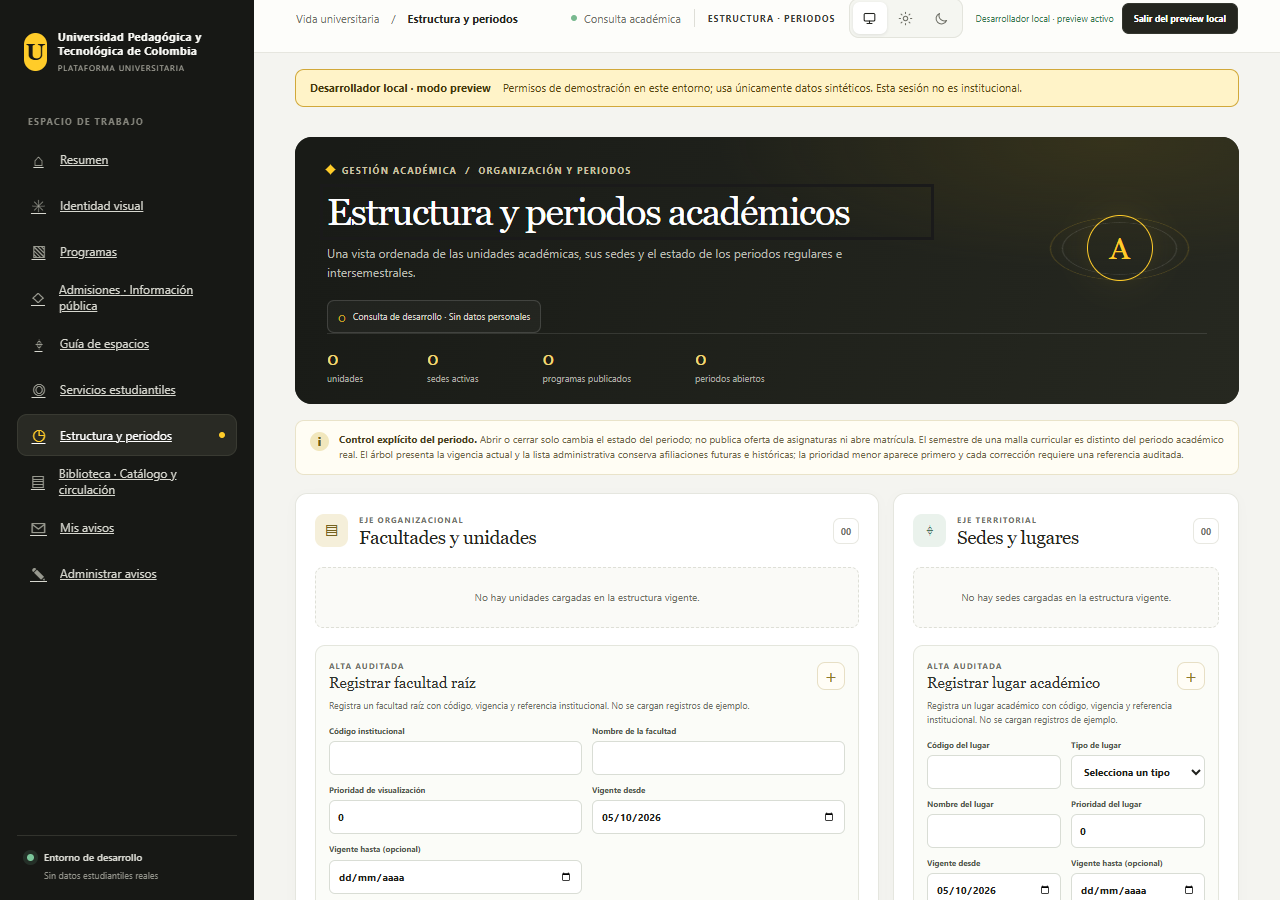
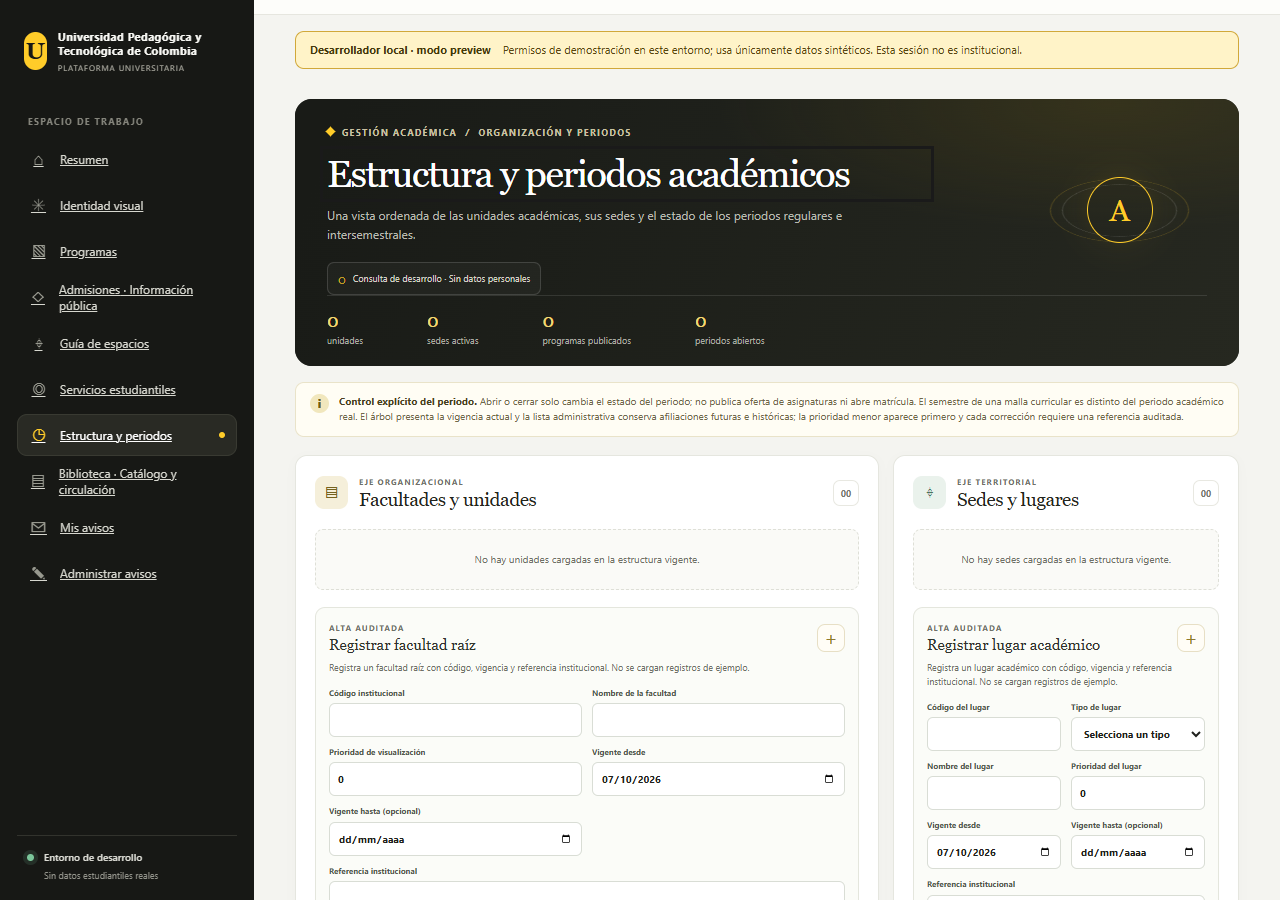
fix(a11y): auditar las 11 rutas reales y corregir avisos, carga y filtro
Las auditorias axe usaban #noticias, que no existe y cae a la portada: median la portada dos veces y nunca vieron #avisos, #avisos-admin ni #estudiantes. Con la lista corregida a las 11 rutas reales aparecen 7 violaciones: page-has-heading-one x4 en las dos paginas de avisos (empezaban en h2), .module-loading a 4,17 en claro y el filtro pulsado estudiantil a 1,33 sobre amarillo en oscuro. Titulos a h1 con sus h3 a h2 y reglas SCSS, .module-loading oscurecido a 4,77 y superficie oscura propia para el filtro conservando el amarillo. axe 0 violaciones en 22 combinaciones. 557 pruebas en 80 archivos y 129 guardas, lint y build verdes.

diff --git a/frontend/src/features/notices/InstitutionalNoticesAdminPage.tsx b/frontend/src/features/notices/InstitutionalNoticesAdminPage.tsx
@@ -130,7 +130,7 @@ function InstitutionalNoticesAdminPageContent({
     <section className="notices-admin" aria-labelledby="notices-admin-title">
       <header className="notices-admin-heading">
         <p className="notices-admin-kicker">COMUNICACIONES INSTITUCIONALES</p>
-        <h2 id="notices-admin-title">Avisos institucionales</h2>
+        <h1 id="notices-admin-title">Avisos institucionales</h1>
         <p>Cada aviso se publica completo y no se edita; una corrección es otro aviso. La audiencia decide quién puede leerlo.</p>
       </header>
 
@@ -148,7 +148,7 @@ function InstitutionalNoticesAdminPageContent({
           {notices.map((notice) => (
             <li key={notice.noticeId} className="notices-admin-item">
               <div className="notices-admin-item-heading">
-                <h3>{notice.title}</h3>
+                <h2>{notice.title}</h2>
                 <span className="notices-admin-window">
                   <time dateTime={notice.publishedFrom}>{notice.publishedFrom}</time>
                   {' – '}
@@ -173,7 +173,7 @@ function InstitutionalNoticesAdminPageContent({
 
       {canWrite && (
         <form className="notices-admin-form" aria-label="Publicar aviso institucional" onSubmit={(event) => void publish(event)}>
-          <h3>Publicar aviso</h3>
+          <h2>Publicar aviso</h2>
           <label className="notices-admin-field"><span>Título</span>
             <input name="title" required maxLength={160} /></label>
           <label className="notices-admin-field"><span>Cuerpo</span>

diff --git a/frontend/src/features/notices/MyNoticesPage.tsx b/frontend/src/features/notices/MyNoticesPage.tsx
@@ -72,7 +72,7 @@ function MyNoticesPageContent({ client, accessToken }: { client: NoticesClient; 
     <section className="my-notices" aria-labelledby="my-notices-title">
       <header className="my-notices-heading">
         <p className="my-notices-kicker">COMUNICACIONES INSTITUCIONALES</p>
-        <h2 id="my-notices-title">Mis avisos</h2>
+        <h1 id="my-notices-title">Mis avisos</h1>
         <p>Avisos cuya audiencia corresponde a tus ámbitos institucionales vigentes. El servidor decide qué puedes leer.</p>
       </header>
 
@@ -88,7 +88,7 @@ function MyNoticesPageContent({ client, accessToken }: { client: NoticesClient; 
           {notices.map((notice) => (
             <li key={notice.noticeId} className="my-notices-item">
               <div className="my-notices-item-heading">
-                <h3>{notice.title}</h3>
+                <h2>{notice.title}</h2>
                 <span className="my-notices-window">
                   <time dateTime={notice.publishedFrom}>{notice.publishedFrom}</time>
                   {' – '}

diff --git a/frontend/src/features/notices/InstitutionalNoticesAdminPage.test.tsx b/frontend/src/features/notices/InstitutionalNoticesAdminPage.test.tsx
@@ -28,6 +28,15 @@ function fakeClient(overrides: Partial<NoticesAdminClient> = {}): NoticesAdminCl
 afterEach(() => cleanup())
 
 describe('InstitutionalNoticesAdminPage', () => {
+  // axe-core, 8 de octubre de 2026: la página empezaba en `h2` sin `h1`.
+  it('titles the page with a level-one heading', async () => {
+    // Arrange + Act
+    render(<InstitutionalNoticesAdminPage client={fakeClient()} authorization={{ accessToken: 'token', canRead: true, canWrite: false }} />)
+
+    // Assert
+    expect(await screen.findByRole('heading', { level: 1, name: 'Avisos institucionales' })).toBeVisible()
+  })
+
   it('lists the published notices with their reference and audiences', async () => {
     // Arrange + Act
     render(<InstitutionalNoticesAdminPage client={fakeClient()} authorization={{ accessToken: 'token', canRead: true, canWrite: false }} />)

diff --git a/frontend/src/App.scss b/frontend/src/App.scss
@@ -181,7 +181,7 @@
 .page-content { max-width: 1440px; margin: 0 auto; padding: 34px 42px 20px; }
 .workspace-home-page-content { min-width: 0; min-height: calc(100vh - 69px); padding: 0; }
 .workspace-home-page-content > .page-footer { width: min(calc(100% - clamp(36px, 6.4vw, 96px)), 1510px); margin: 0 auto 18px; }
-.module-loading { display: grid; min-height: clamp(220px, 54vh, 520px); place-items: center; color: #74766e; font-size: 12px; }
+.module-loading { display: grid; min-height: clamp(220px, 54vh, 520px); place-items: center; color: #6b6d62; font-size: 12px; }
 // ponytail: la reserva replica la altura real del modulo (~4508 px medidos con la
 // ventana de 24 tarjetas). Si cambia la ventana o el contenido, hay que volver a
 // medir; mientras tanto el salto del footer es preferible a un CLS de 0,75.

diff --git a/frontend/src/features/notices/MyNoticesPage.test.tsx b/frontend/src/features/notices/MyNoticesPage.test.tsx
@@ -21,6 +21,16 @@ function fakeClient(overrides: Partial<NoticesClient> = {}): NoticesClient {
 afterEach(() => cleanup())
 
 describe('MyNoticesPage', () => {
+  // axe-core, 8 de octubre de 2026: la página empezaba en `h2` sin `h1`. El título de página es el
+  // nivel uno; los avisos cuelgan de él como nivel dos.
+  it('titles the page with a level-one heading', async () => {
+    // Arrange + Act
+    render(<MyNoticesPage client={fakeClient()} accessToken="token" />)
+
+    // Assert
+    expect(await screen.findByRole('heading', { level: 1, name: 'Mis avisos' })).toBeVisible()
+  })
+
   it('lists the notices a person can read with their validity window', async () => {
     // Arrange + Act
     render(<MyNoticesPage client={fakeClient()} accessToken="token" />)

diff --git a/frontend/src/styles/_theme.scss b/frontend/src/styles/_theme.scss
@@ -345,6 +345,14 @@
   color: var(--ui-text-primary);
 }
 
+// El filtro pulsado fija fondo amarillo y texto oscuro con literales; la regla puerta le pinta el
+// texto claro en oscuro (1,33 sobre `#ffcc29`). Se usan literales a proposito, como en el resto de
+// superficies especiales de este archivo: el amarillo de marca no cambia con el tema.
+:root[data-theme='dark'] .workspace main .student-academic-calendar-filter-options button[aria-pressed='true'] span {
+  background: #ffcc29;
+  color: #171815;
+}
+
 :root[data-theme='dark'] .workspace main .catalog-hero {
   border-color: var(--ui-border);
   background: var(--ui-surface-raised);

diff --git a/frontend/src/features/notices/InstitutionalNoticesAdminPage.scss b/frontend/src/features/notices/InstitutionalNoticesAdminPage.scss
@@ -65,7 +65,7 @@
     justify-content: space-between;
     gap: 0.6rem;
 
-    h3 {
+    h2 {
       margin: 0;
       font-size: 1.05rem;
     }
@@ -125,7 +125,7 @@
     border: 1px dashed var(--ui-border-strong);
     border-radius: 0.75rem;
 
-    h3 {
+    h2 {
       margin: 0;
     }
   }

diff --git a/frontend/src/features/notices/MyNoticesPage.scss b/frontend/src/features/notices/MyNoticesPage.scss
@@ -64,7 +64,7 @@
     justify-content: space-between;
     gap: 0.6rem;
 
-    h3 {
+    h2 {
       margin: 0;
       font-size: 1.05rem;
     }

diff --git a/docs/evidence/round-2026-10-08-humo/README.md b/docs/evidence/round-2026-10-08-humo/README.md
@@ -1,0 +1,34 @@
+# Pasada de humo y rutas que nunca se auditaron — 8 de octubre de 2026
+
+## El hallazgo metodológico
+
+`#noticias` no es una ruta: `readApplicationView` solo conoce 11 hashes y cualquier otro cae a la
+portada. Las auditorías axe anteriores usaban `#noticias`, así que medían la portada dos veces y
+dejaban sin auditar `#avisos`, `#avisos-admin` y `#estudiantes`. La pasada de humo
+(`pasada-humo.mjs`, 9 capturas `humo-dark-*.png`) lo delató al mostrar la portada donde debían estar
+los avisos.
+
+`auditar-axe.mjs` ahora recorre las 11 rutas reales con su texto de espera propio.
+
+## Lo que encontró la lista corregida: 7 violaciones
+
+| Violación | Causa | Arreglo |
+| --- | --- | --- |
+| `page-has-heading-one` ×4 en `#avisos` y `#avisos-admin` | Ambas páginas empezaban en `h2` | Título a `h1`, sus `h3` a `h2` y las 3 reglas SCSS anidadas; aserción `level: 1` en cada test de página |
+| `.module-loading` a 4,17 en claro | `#74766e` sobre `#f4f4f0` | `#6b6d62` (4,77) |
+| Filtro pulsado estudiantil a **1,33** en oscuro | El componente declara texto oscuro sobre amarillo, pero la regla puerta lo fuerza a claro | Regla oscura que conserva el amarillo con texto oscuro; guard en `check-dark-theme-feedback` |
+
+## Verificación
+
+- **axe-core: 0 violaciones** en 22 combinaciones (`axe-11-rutas-tras-arreglo.txt`).
+- Foco 8/8 en títulos, sin cambios.
+- **557 pruebas en 80 archivos y 129 guardas**, lint sin avisos, build dentro de presupuesto.
+- Captura `avisos-dark-h1.png`: jerarquía `h1`→`h2` legible en oscuro.
+
+## Archivos de esta ronda
+
+- `pasada-humo.mjs`: capturas de humo por ruta (así se descubrió lo de `#noticias`).
+- `sondar-rutas.mjs`: diagnóstico rápido de qué pinta cada hash (encabezados + breadcrumbs).
+- `capturar-avisos.mjs`: captura del estado corregido.
+- `axe-11-rutas-2026-10-08.txt`: las 7 violaciones antes del arreglo.
+- `axe-11-rutas-tras-arreglo.txt`: 0 violaciones después.

diff --git a/docs/ROADMAP.md b/docs/ROADMAP.md
@@ -646,3 +646,11 @@ cuenta; no se tocan desde aqui. El unico residuo que no se puede quitar es
 | --- | --- | --- |
 | La CI no construye las imágenes | Los Dockerfiles de producción se verificarían el día del despliegue, tarde. | `check-prod-dockerfiles` fija: backend non-root + readiness + sin perfil dev + multietapa; frontend nginx multietapa sin dev server, con `nginx.conf` y solo `dist` en la etapa final. |
 | Verificado con mutación | `USER root` temporal lo deja en rojo; restaurado en verde. | El propio guard se afinó una vez: detectaba la palabra en comentarios, ahora solo patrones de activación real. Ver [evidencia](evidence/round-2026-10-08-imagenes-prod/README.md). |
+
+### La auditoría medía la portada dos veces - 8 de octubre de 2026
+
+| Entrega | Resultado verificable | Estado y siguiente paso |
+| --- | --- | --- |
+| `#noticias` no existe | Las rutas reales salen de `readApplicationView`: 11 en total. `#noticias` cae a la portada. | `auditar-axe.mjs` usaba `#noticias`: medía la portada dos veces y nunca vio `#avisos`, `#avisos-admin` ni `#estudiantes`. Lista corregida a las 11 rutas. |
+| 7 violaciones reales nuevas | `page-has-heading-one` ×4 en `#avisos` y `#avisos-admin` (empiezan en `h2`); `.module-loading` a 4,17 en claro; filtro pulsado estudiantil a **1,33** sobre amarillo en oscuro. | Las dos páginas pasan a `h1` con sus `h3` bajados a `h2` (y sus 3 reglas SCSS); `.module-loading` se oscurece a 4,77; el filtro conserva texto oscuro sobre amarillo en oscuro. |
+| Verificación | **axe-core 0 violaciones** en 22 combinaciones, foco 8/8 en títulos, **557 pruebas en 80 archivos y 129 guardas**, lint sin avisos, build dentro de presupuesto. | Presupuesto: `entryStyles` 24.000 → 24.150 y `programsStyles` 56.600 → 56.750, ~110 B por la superficie del filtro. Ver [evidencia](evidence/round-2026-10-08-humo/README.md). |
